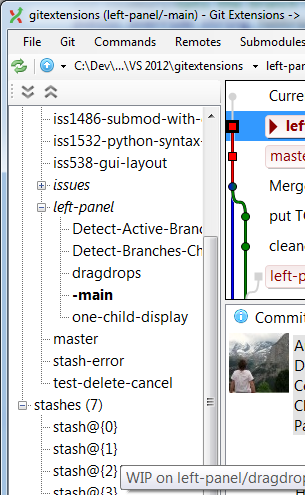
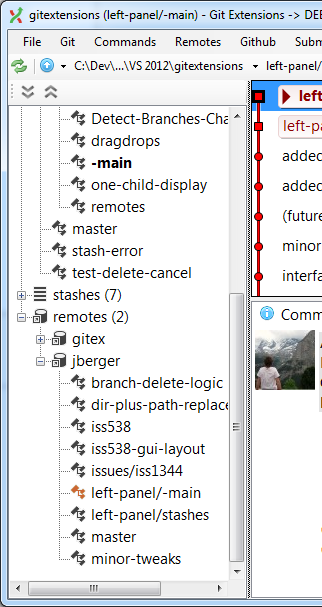
Expand/Collapse buttons had been removed; (progress)

diff --git a/GitUI/RepoObjectsTree/RepoObjectsTree.cs b/GitUI/RepoObjectsTree/RepoObjectsTree.cs
@@ -44,20 +44,20 @@ namespace GitUI.UserControls
 
             DragDrops();
 
-            //AddRootNode(new BranchesNode(
-            //    new TreeNode(Strings.branches.Text)
-            //    {
-            //        ContextMenuStrip = menuBranches,
-            //        ImageKey = branchesKey
-            //    },
-            //    UICommands,
-            //    () =>
-            //    {
-            //        var branchNames = Module.GetBranchNames().ToArray();
-            //        return BranchesNode.GetBranchTree(UICommands, branchNames);
-            //    },
-            //    OnAddBranchNode
-            //));
+            AddRootNode(new BranchesNode(
+                new TreeNode(Strings.branches.Text)
+                {
+                    ContextMenuStrip = menuBranches,
+                    ImageKey = branchesKey
+                },
+                UICommands,
+                () =>
+                {
+                    var branchNames = Module.GetBranchNames().ToArray();
+                    return BranchesNode.GetBranchTree(UICommands, branchNames);
+                },
+                OnAddBranchNode
+            ));
             AddTreeSet(new TreeNode(Strings.stashes.Text)
                 {
                     ContextMenuStrip = menuStashes,

diff --git a/GitUI/RepoObjectsTree/RepoObjectsTree.Designer.cs b/GitUI/RepoObjectsTree/RepoObjectsTree.Designer.cs
@@ -105,6 +105,9 @@ namespace GitUI.UserControls
             // 
             // toolbarMain
             // 
+            this.toolbarMain.Items.AddRange(new System.Windows.Forms.ToolStripItem[] {
+            this.toolbtnExpandAll,
+            this.toolbtnCollapseAll}); 
             this.toolbarMain.Location = new System.Drawing.Point(0, 0);
             this.toolbarMain.Name = "toolbarMain";
             this.toolbarMain.Size = new System.Drawing.Size(200, 25);
